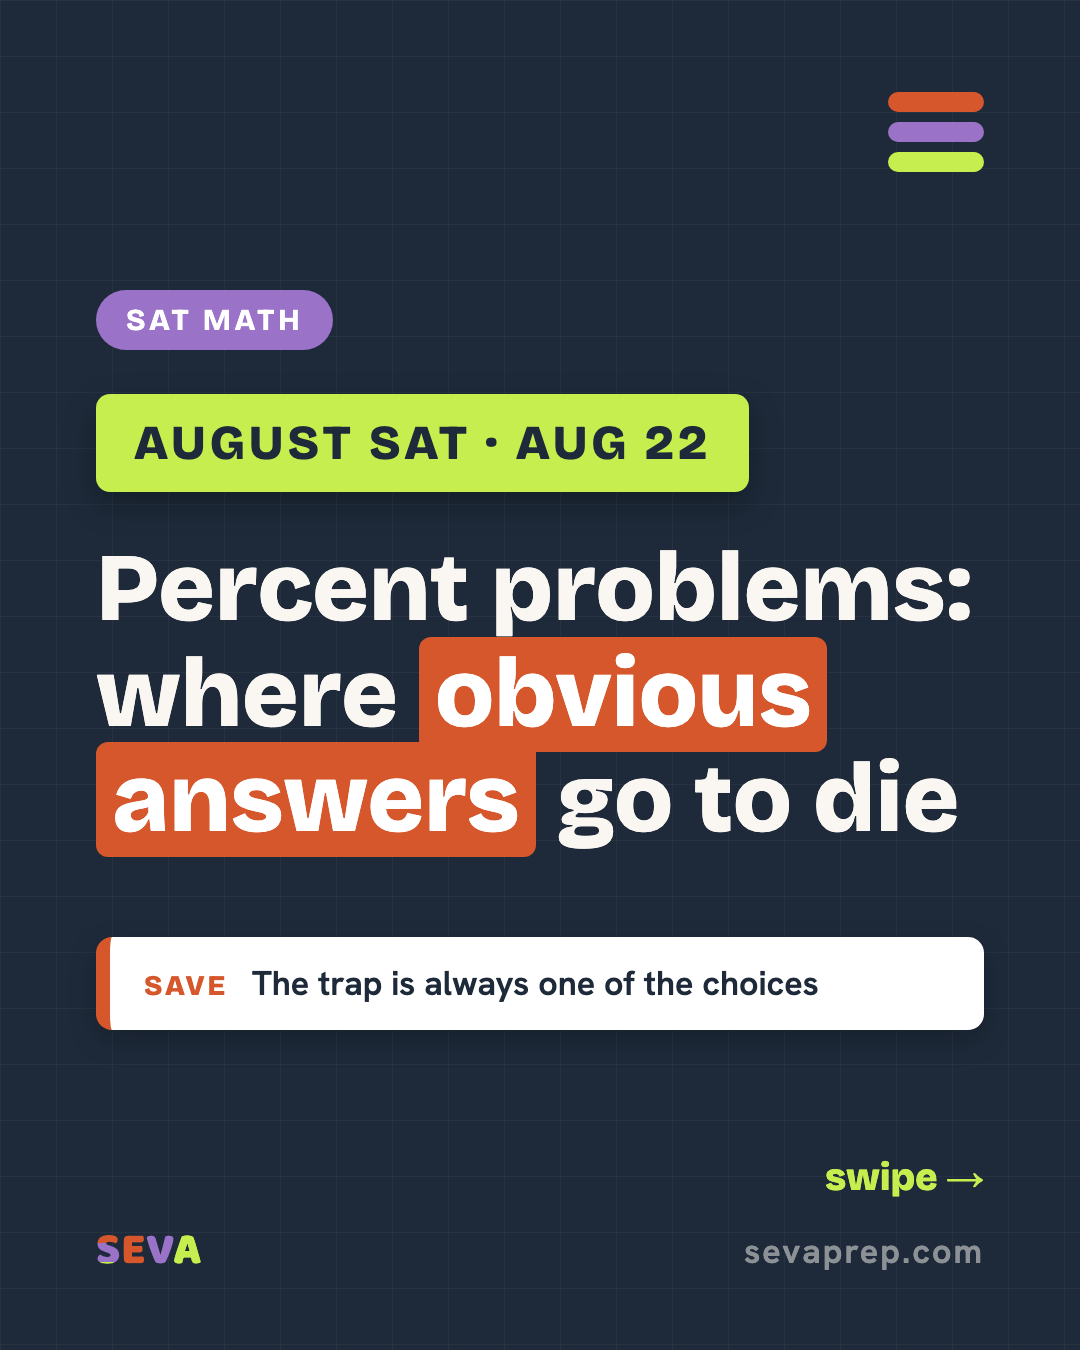
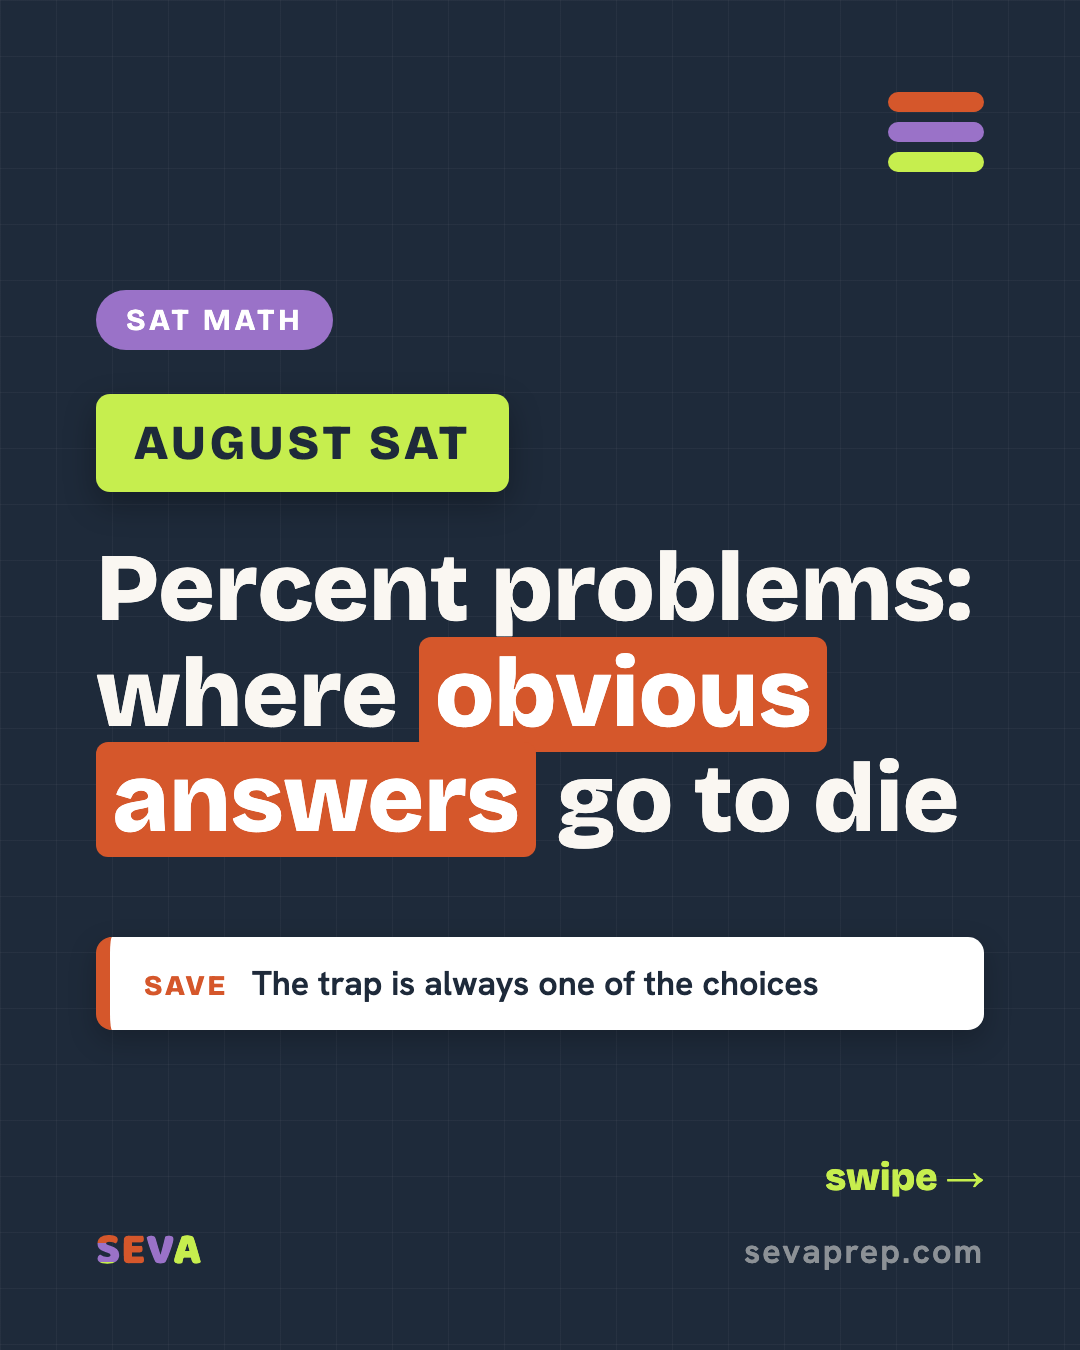
marketing: carousel cover stamp reads 'August SAT' (drop the date)

Changed region(s): [[0.4583, 0.28, 0.7028, 0.3733]]

diff --git a/marketing/carousel-generator/README.md b/marketing/carousel-generator/README.md
@@ -20,7 +20,7 @@ Slide types:
 
 | type | fields | use for |
 |---|---|---|
-| `cover` | eyebrow, title, badge?, stamp? | searchable hook + save-bait; stamp renders the lime test-date plate ("August SAT · Aug 22") |
+| `cover` | eyebrow, title, badge?, stamp? | searchable hook + save-bait; stamp renders the lime test plate ("August SAT") |
 | `formula` | eyebrow, title, formula, cases? `[["D > 0","two real solutions"]]`, tip? | formula slides (saves) |
 | `rule` | eyebrow, title, words?, body, tip? | R&W rules / word lists |
 | `trap` | eyebrow, title, formula?, body, tip? | the Seva angle — why students miss it |
